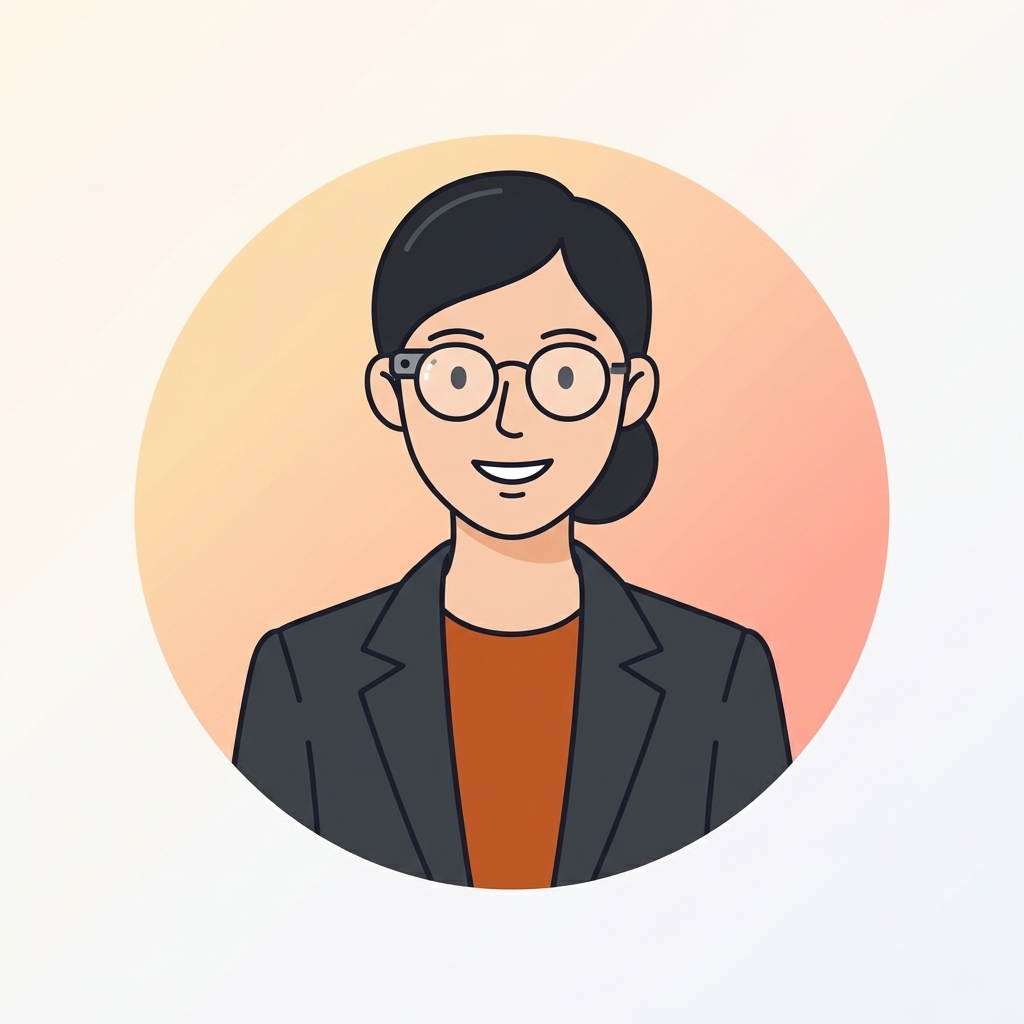
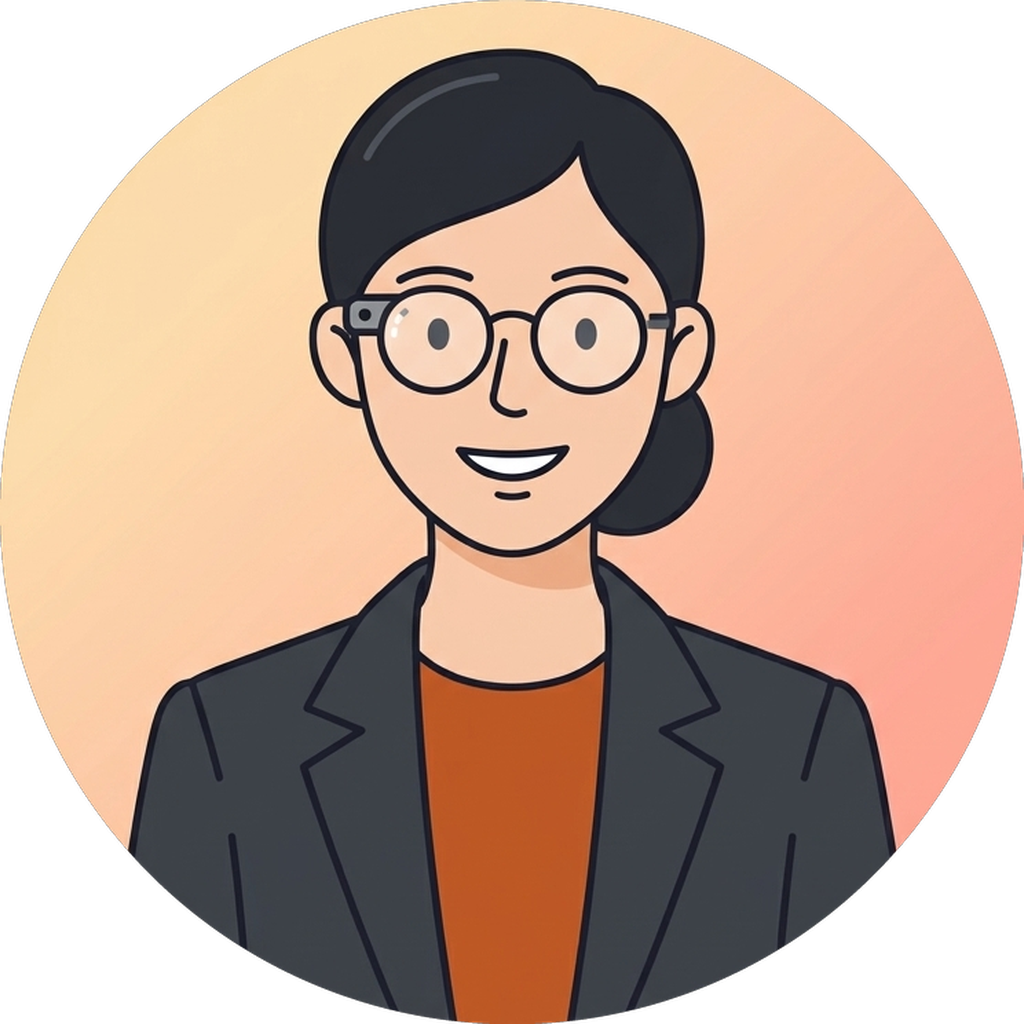
style(kawankerja): refine floating launcher badge visual and fix status dot clipping

diff --git a/resources/css/kawankerja.css b/resources/css/kawankerja.css
@@ -16,11 +16,11 @@
     align-items: center;
     gap: 10px;
     height: 48px;
-    padding: 6px 16px 6px 6px;
+    padding: 5px 16px 5px 6px;
     background: #ffffff;
-    border: 1px solid #e4e4e7;
+    border: 1px solid #eae5f2;
     border-radius: 9999px;
-    box-shadow: 0 4px 18px -2px rgba(24, 24, 27, 0.08), 0 2px 4px -1px rgba(24, 24, 27, 0.04);
+    box-shadow: 0 4px 18px -2px rgba(67, 50, 90, 0.10), 0 2px 4px -1px rgba(0, 0, 0, 0.03);
     color: #18181b;
     font-size: 13px;
     cursor: pointer;
@@ -30,62 +30,73 @@
 
 .kawankerja-launcher:hover {
     transform: translateY(-2px);
-    box-shadow: 0 8px 24px -4px rgba(24, 24, 27, 0.12);
-    border-color: #d4d4d8;
+    box-shadow: 0 8px 24px -4px rgba(100, 76, 135, 0.18), 0 3px 6px -1px rgba(0, 0, 0, 0.04);
+    border-color: #cfc5e4;
+}
+
+.kawankerja-launcher:active {
+    transform: translateY(0);
+    box-shadow: 0 3px 12px -2px rgba(100, 76, 135, 0.14);
+}
+
+.kawankerja-launcher-avatar-wrap {
+    position: relative;
+    width: 36px;
+    height: 36px;
+    flex-shrink: 0;
 }
 
 .kawankerja-launcher-avatar {
-    position: relative;
     width: 36px;
     height: 36px;
     border-radius: 9999px;
     overflow: hidden;
-    background: #f4f4f5;
+    background: #fdf2e9;
     flex-shrink: 0;
+    box-shadow: 0 0 0 1px rgba(0, 0, 0, 0.04);
 }
 
 .kawankerja-launcher-avatar img {
     width: 100%;
     height: 100%;
     object-fit: cover;
+    display: block;
 }
 
 .kawankerja-online-dot {
     position: absolute;
-    bottom: 0;
-    right: 0;
-    width: 9px;
-    height: 9px;
+    bottom: 0px;
+    right: 0px;
+    width: 10px;
+    height: 10px;
     border-radius: 9999px;
     background: #10b981;
     border: 2px solid #ffffff;
+    box-shadow: 0 1px 3px rgba(0, 0, 0, 0.12);
+    z-index: 2;
 }
 
 .kawankerja-launcher-label {
     display: flex;
     flex-direction: column;
     align-items: flex-start;
-    line-height: 1.2;
+    justify-content: center;
+    line-height: 1.25;
 }
 
-/* Launcher Label */
 .kawankerja-launcher-label strong {
-    font-size: 13px;
+    font-size: 13.5px;
     font-weight: 700;
-    color: #18181b;
+    color: #1c1524;
+    letter-spacing: -0.01em;
 }
 
 .kawankerja-launcher-label small {
     font-size: 11px;
     font-weight: 600;
     color: #644c87;
-}
-
-/* Launcher Hover */
-.kawankerja-launcher:hover {
-    transform: translateY(-2px);
-    box-shadow: 0 8px 24px -4px rgba(100, 76, 135, 0.15);
-    border-color: #cfc5e4;
+    letter-spacing: 0.01em;
+    margin-top: 1px;
 }
 
 /* ==========================================================================
@@ -124,31 +135,41 @@
     gap: 10px;
 }
 
-.kawankerja-header-avatar {
+.kawankerja-header-avatar-wrap {
     position: relative;
+    width: 34px;
+    height: 34px;
+    flex-shrink: 0;
+}
+
+.kawankerja-header-avatar {
     width: 34px;
     height: 34px;
     border-radius: 9999px;
     overflow: hidden;
-    background: #e5e0f5;
+    background: #fdf2e9;
     flex-shrink: 0;
+    box-shadow: 0 0 0 1px rgba(0, 0, 0, 0.04);
 }
 
 .kawankerja-header-avatar img {
     width: 100%;
     height: 100%;
     object-fit: cover;
+    display: block;
 }
 
 .kawankerja-status-indicator {
     position: absolute;
-    bottom: 0;
-    right: 0;
-    width: 8px;
-    height: 8px;
+    bottom: 0px;
+    right: 0px;
+    width: 9px;
+    height: 9px;
     border-radius: 9999px;
     background: #10b981;
     border: 2px solid #ffffff;
+    box-shadow: 0 1px 3px rgba(0, 0, 0, 0.12);
+    z-index: 2;
 }
 
 .kawankerja-header-text h3 {

diff --git a/resources/views/components/kawankerja-chat.blade.php b/resources/views/components/kawankerja-chat.blade.php
@@ -6,8 +6,10 @@
             @click="open = !open; if(open) scrollToBottom()"
             aria-label="Buka KawanKerja AI Assistant"
             :aria-expanded="open.toString()">
-        <div class="kawankerja-launcher-avatar">
-            <img src="{{ asset('images/kawankerja.png') }}" alt="KawanKerja Avatar">
+        <div class="kawankerja-launcher-avatar-wrap">
+            <div class="kawankerja-launcher-avatar">
+                <img src="{{ asset('images/kawankerja.png') }}" alt="KawanKerja Avatar">
+            </div>
             <span class="kawankerja-online-dot"></span>
         </div>
         <div class="kawankerja-launcher-label">
@@ -30,8 +32,10 @@
         <!-- Header -->
         <header class="kawankerja-header">
             <div class="kawankerja-header-info">
-                <div class="kawankerja-header-avatar">
-                    <img src="{{ asset('images/kawankerja.png') }}" alt="KawanKerja Avatar">
+                <div class="kawankerja-header-avatar-wrap">
+                    <div class="kawankerja-header-avatar">
+                        <img src="{{ asset('images/kawankerja.png') }}" alt="KawanKerja Avatar">
+                    </div>
                     <span class="kawankerja-status-indicator"></span>
                 </div>
                 <div class="kawankerja-header-text">
